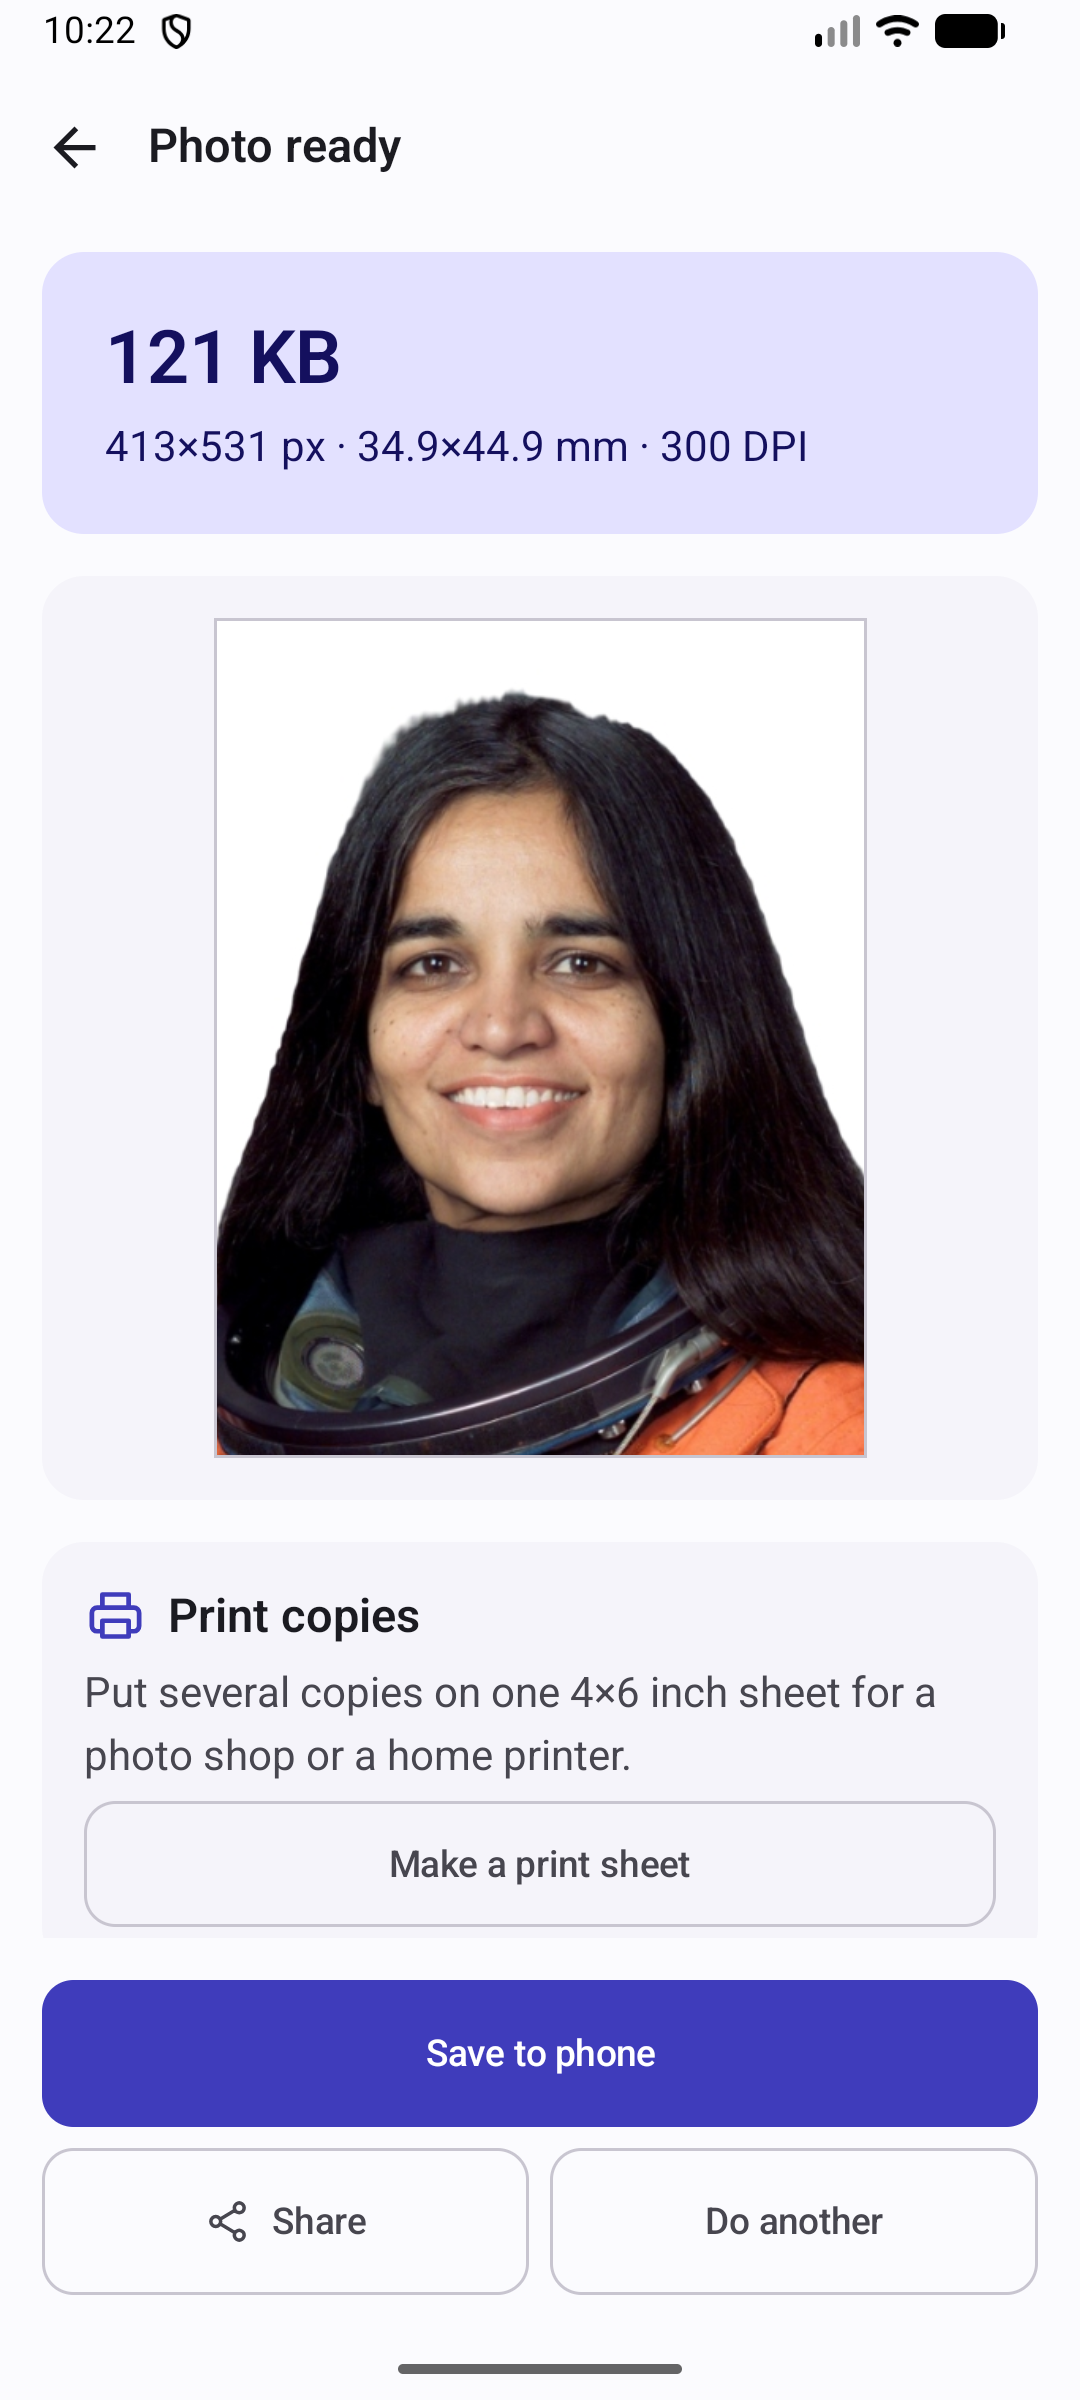
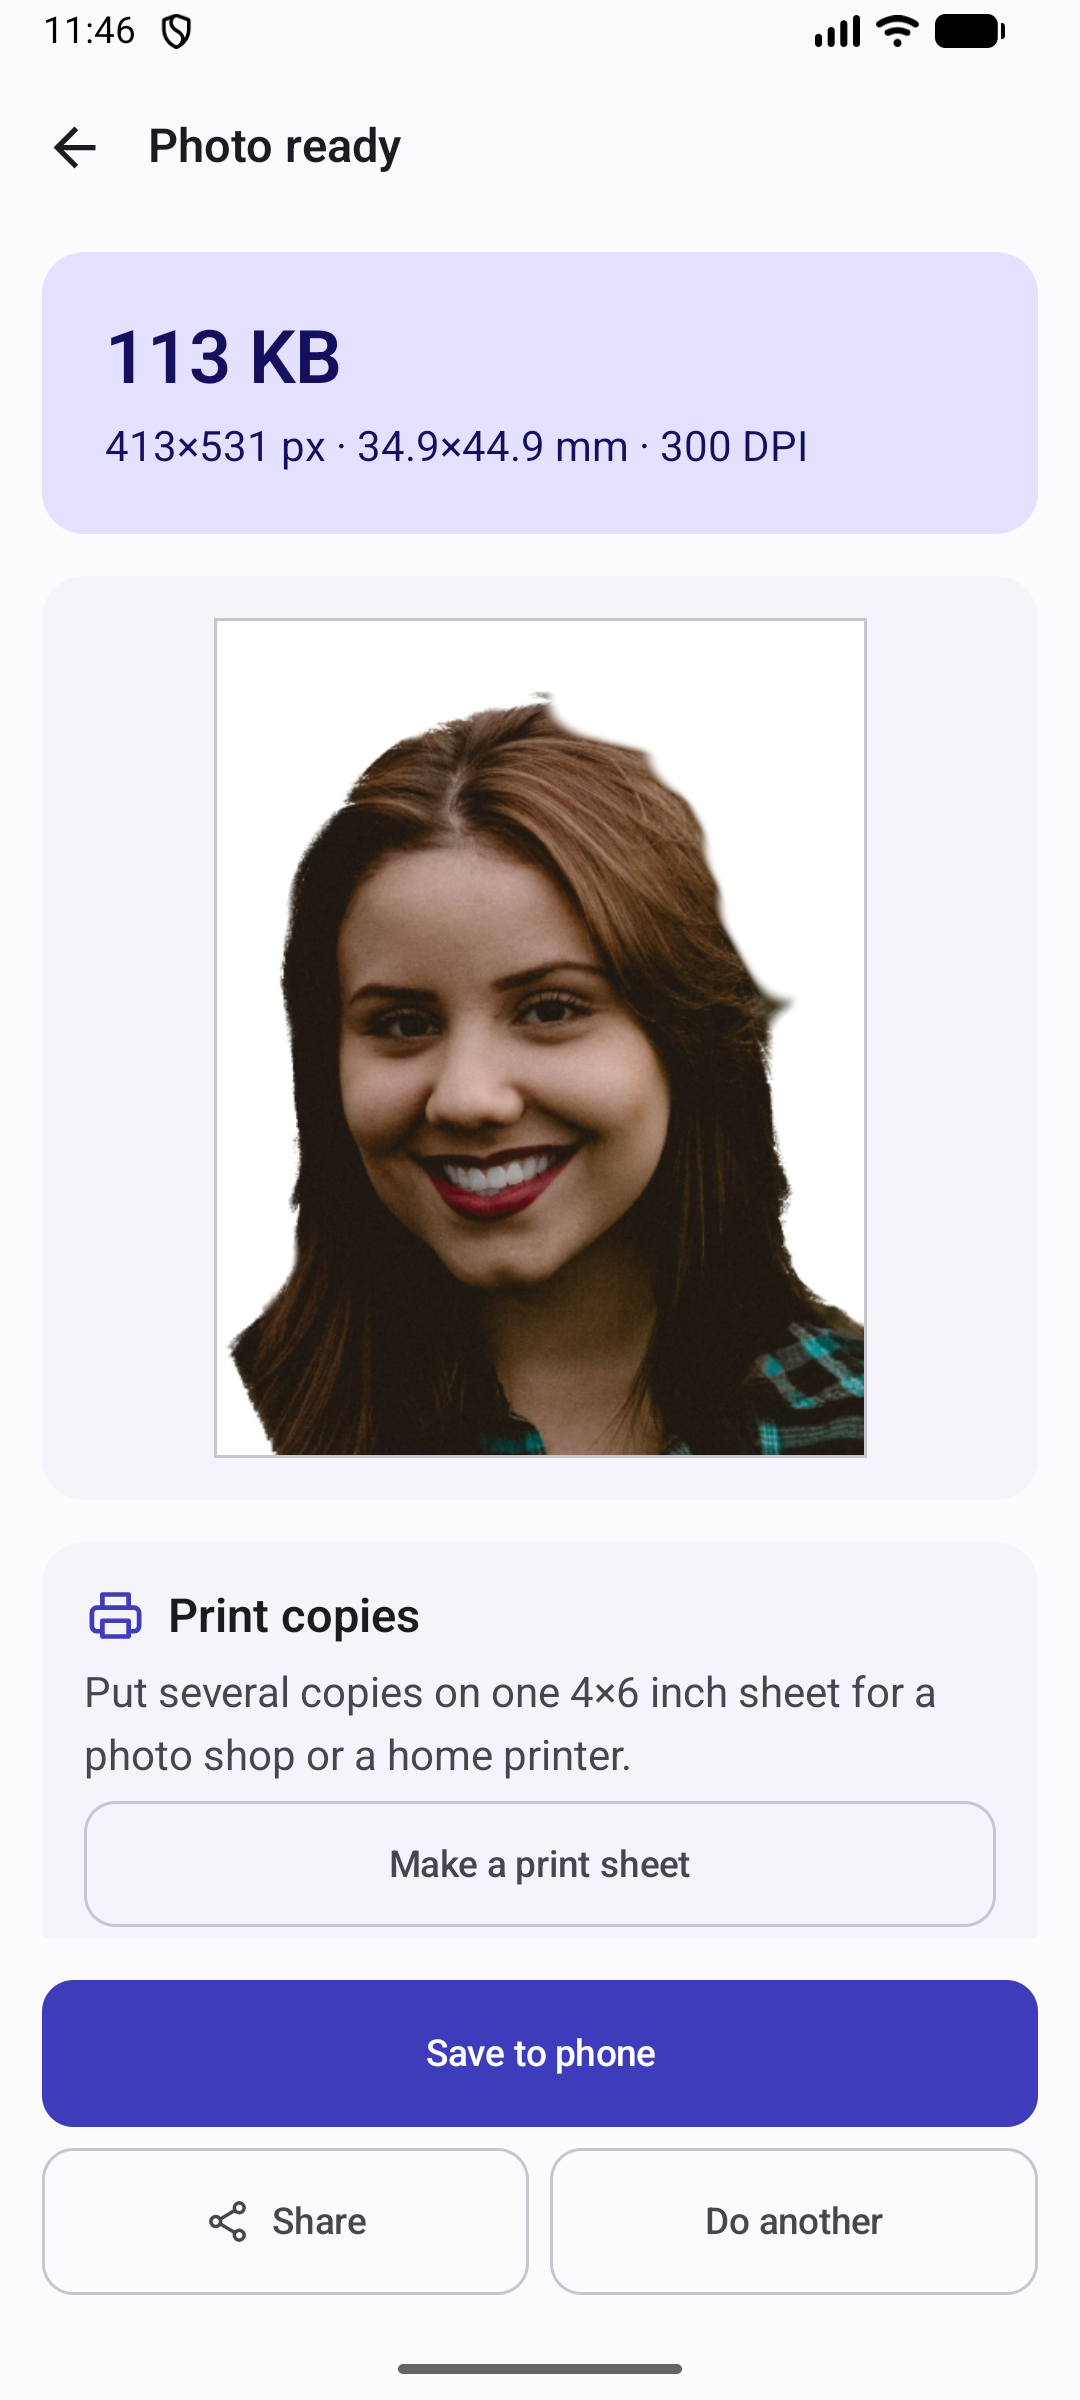
Use a CC0 portrait in the passport screenshot
The old one was a NASA portrait of Kalpana Chawla: public domain, but a
store listing is advertising, and a recognisable person's face in an advert
is a question of likeness rather than copyright. The new one is CC0 and of
nobody in particular, and was made by running the photo through the app.

diff --git a/docs/store-listing.md b/docs/store-listing.md
@@ -95,3 +95,9 @@ indigo and white.
 | 8 | Settings | "No account. No uploads." | The privacy row, theme choice and the Pro card. |
 
 Captured versions of all eight are in `docs/screenshots/`.
+
+The face in screenshot 4 is "Smiling in a cornfield" by Allef Vinicius, from Unsplash by way of
+Wikimedia Commons, under CC0: no copyright, and no named person whose likeness the listing would be
+trading on. Any replacement needs both of those, not only a free licence — a store listing is
+advertising, which is where a photo of a recognisable person causes trouble even when the photograph
+itself is free to use.
